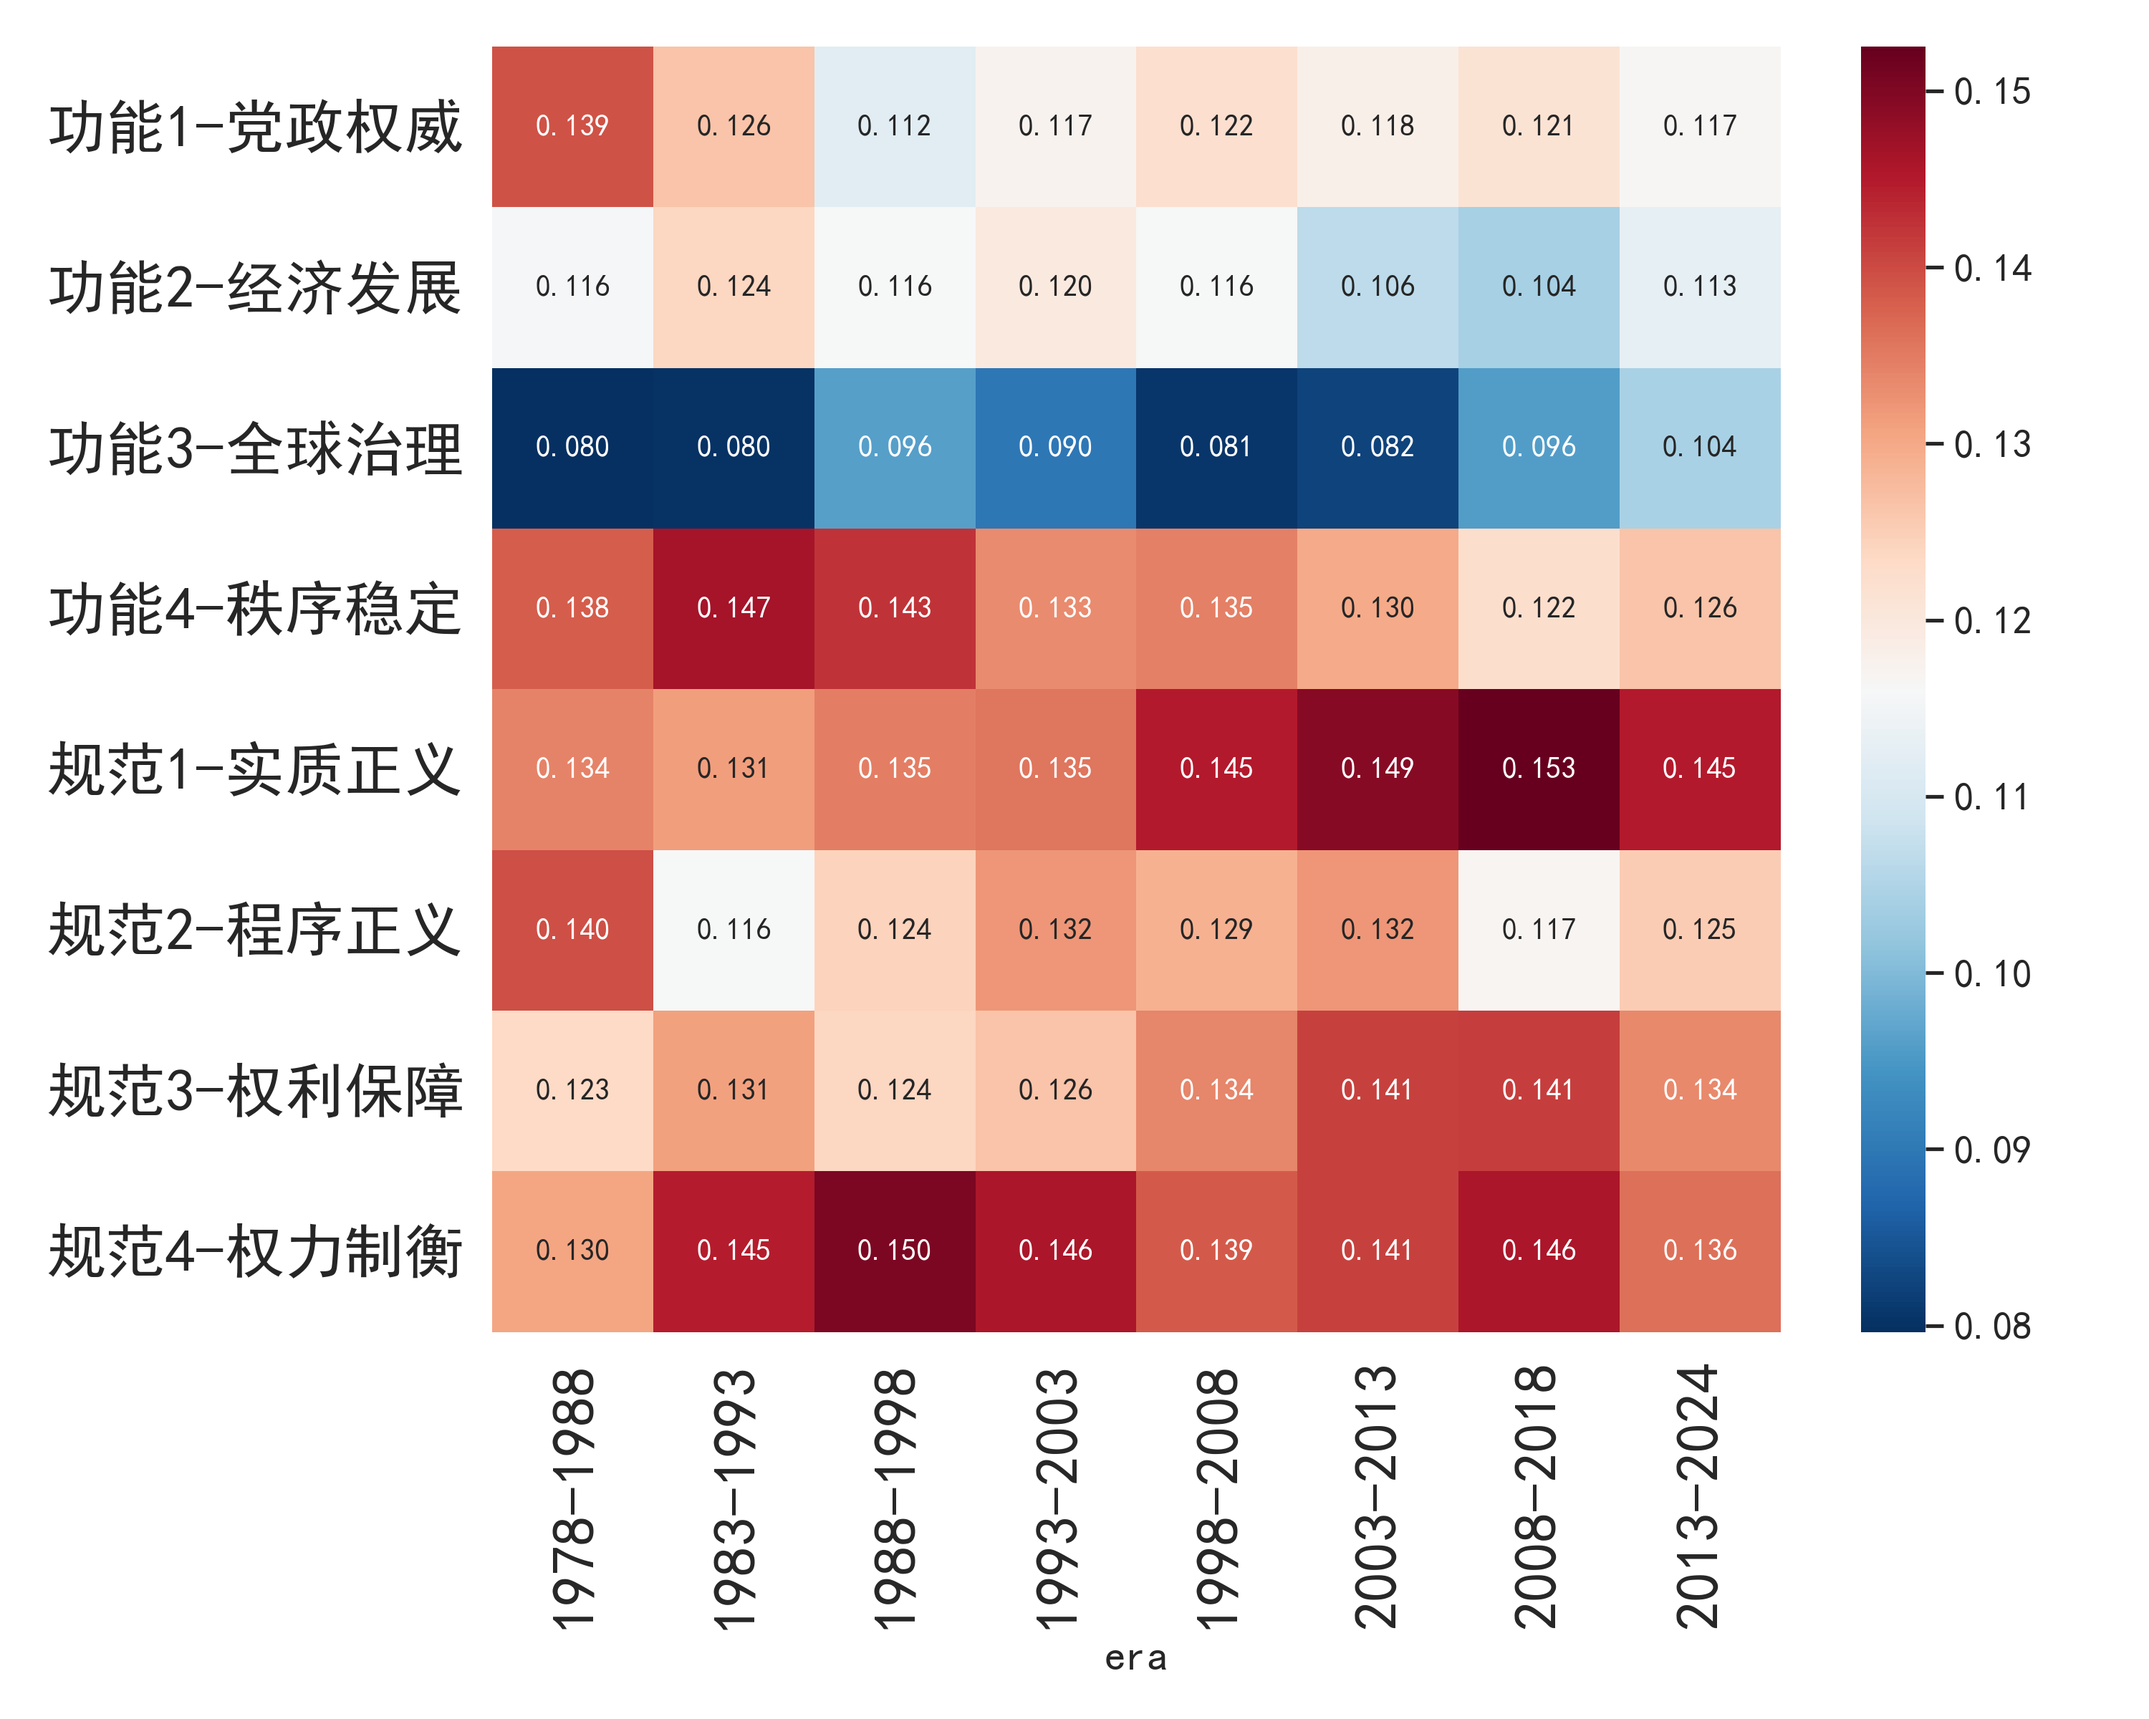
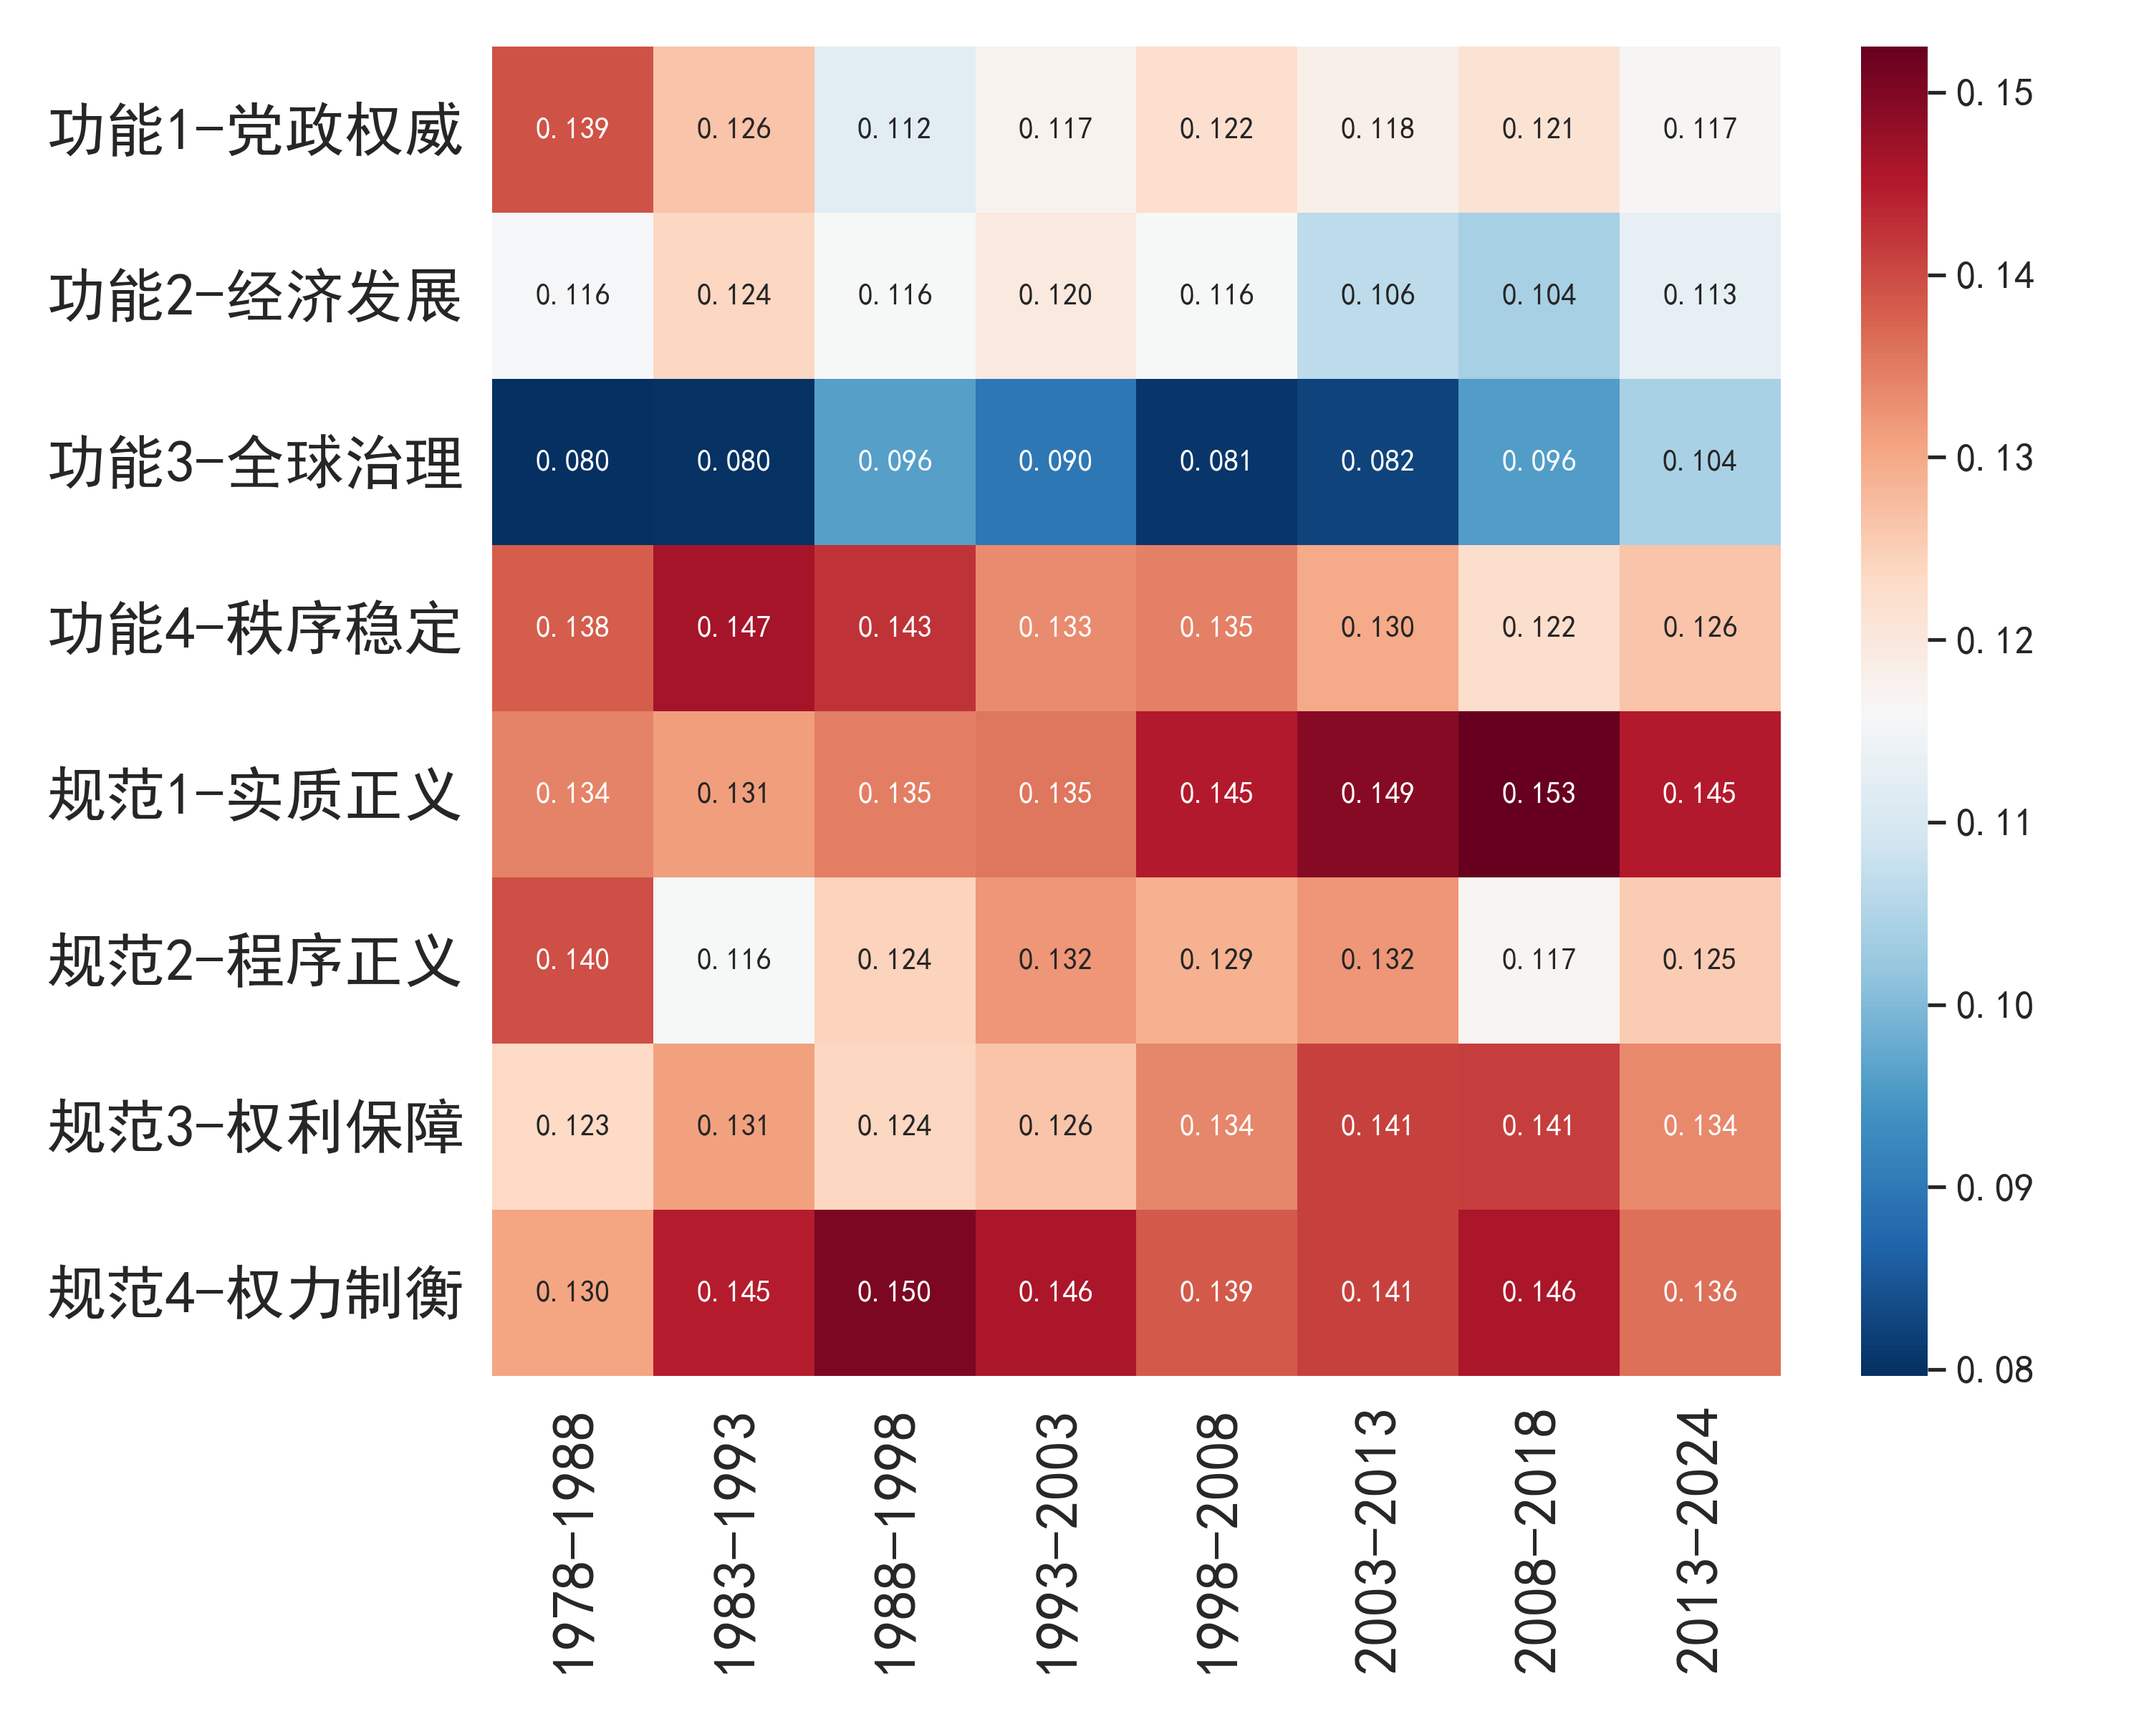
update

diff --git a/src/topic_word_sensitive_analysis/combine_domain_analysis.py b/src/topic_word_sensitive_analysis/combine_domain_analysis.py
@@ -292,7 +292,7 @@ class DomainAnalyzer:
         ax.set_xticklabels(ax.get_xticklabels(), fontsize=20)
         ax.set_yticklabels(ax.get_yticklabels(), fontsize=20)
         # plt.title(title)
-        # plt.xlabel("时期", fontsize=24)
+        plt.xlabel("")
         # plt.ylabel("类别", fontsize=24)
         plt.tight_layout()
         plt.savefig(path / "heatmap.png", dpi=300)
